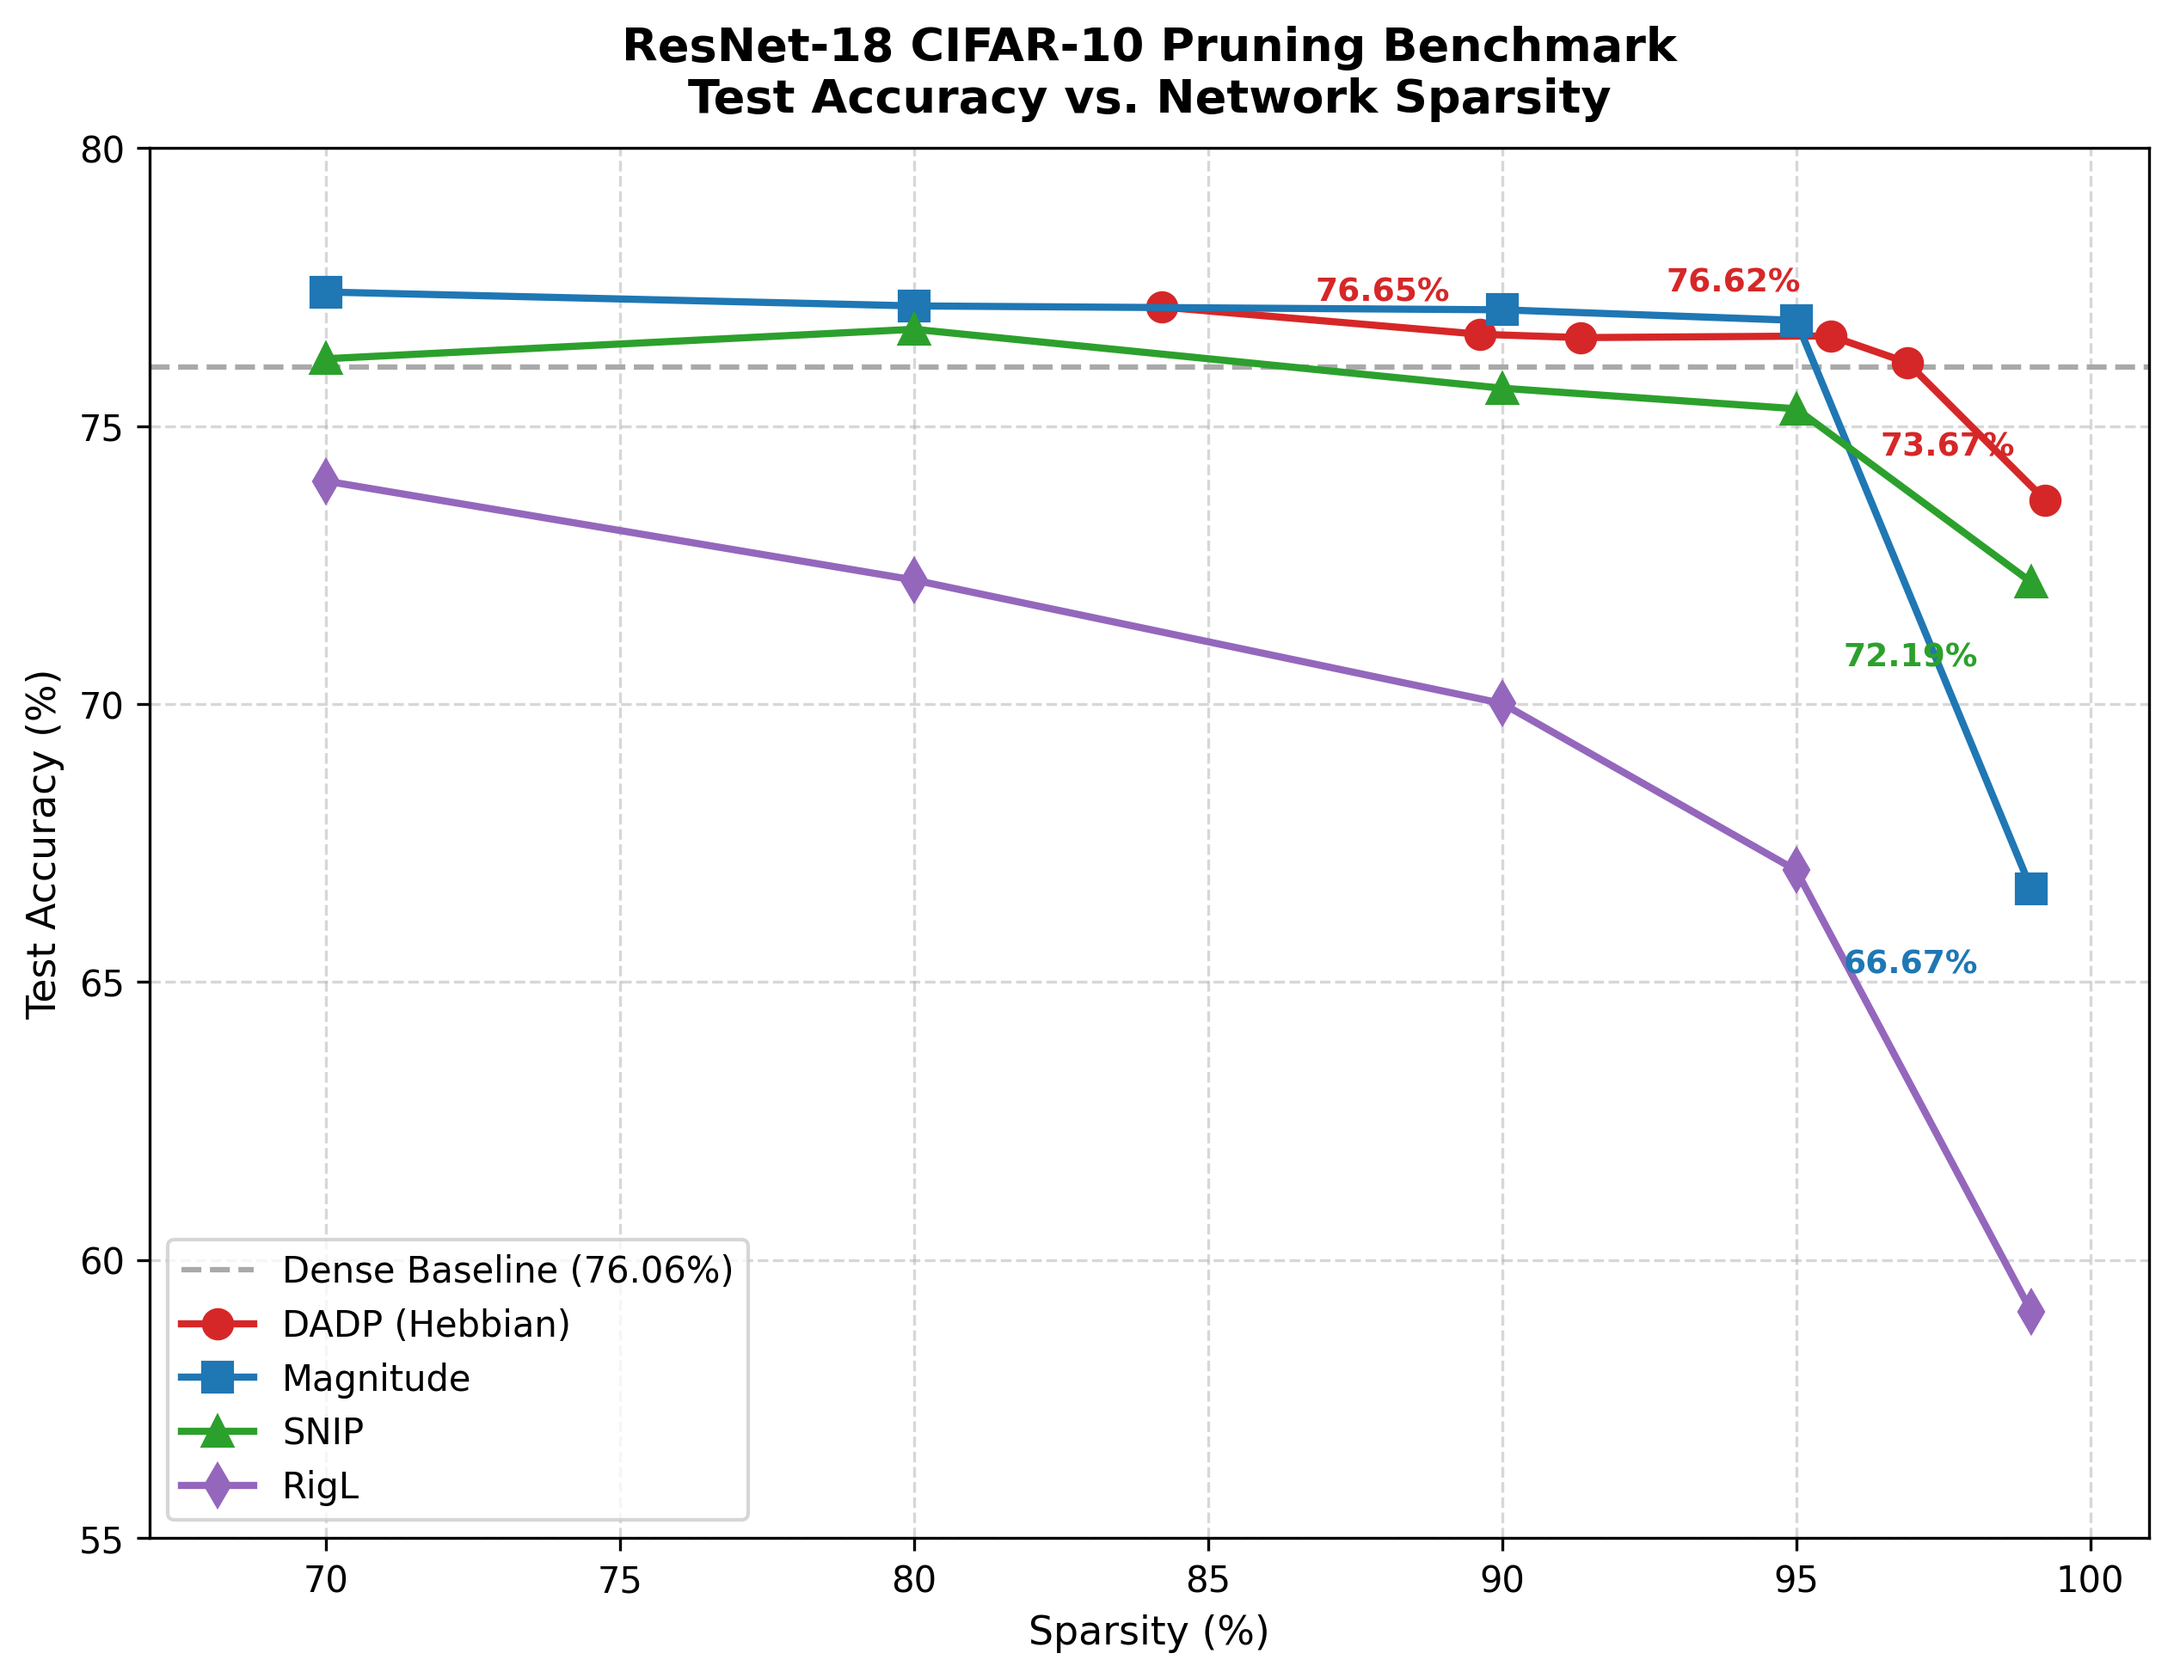
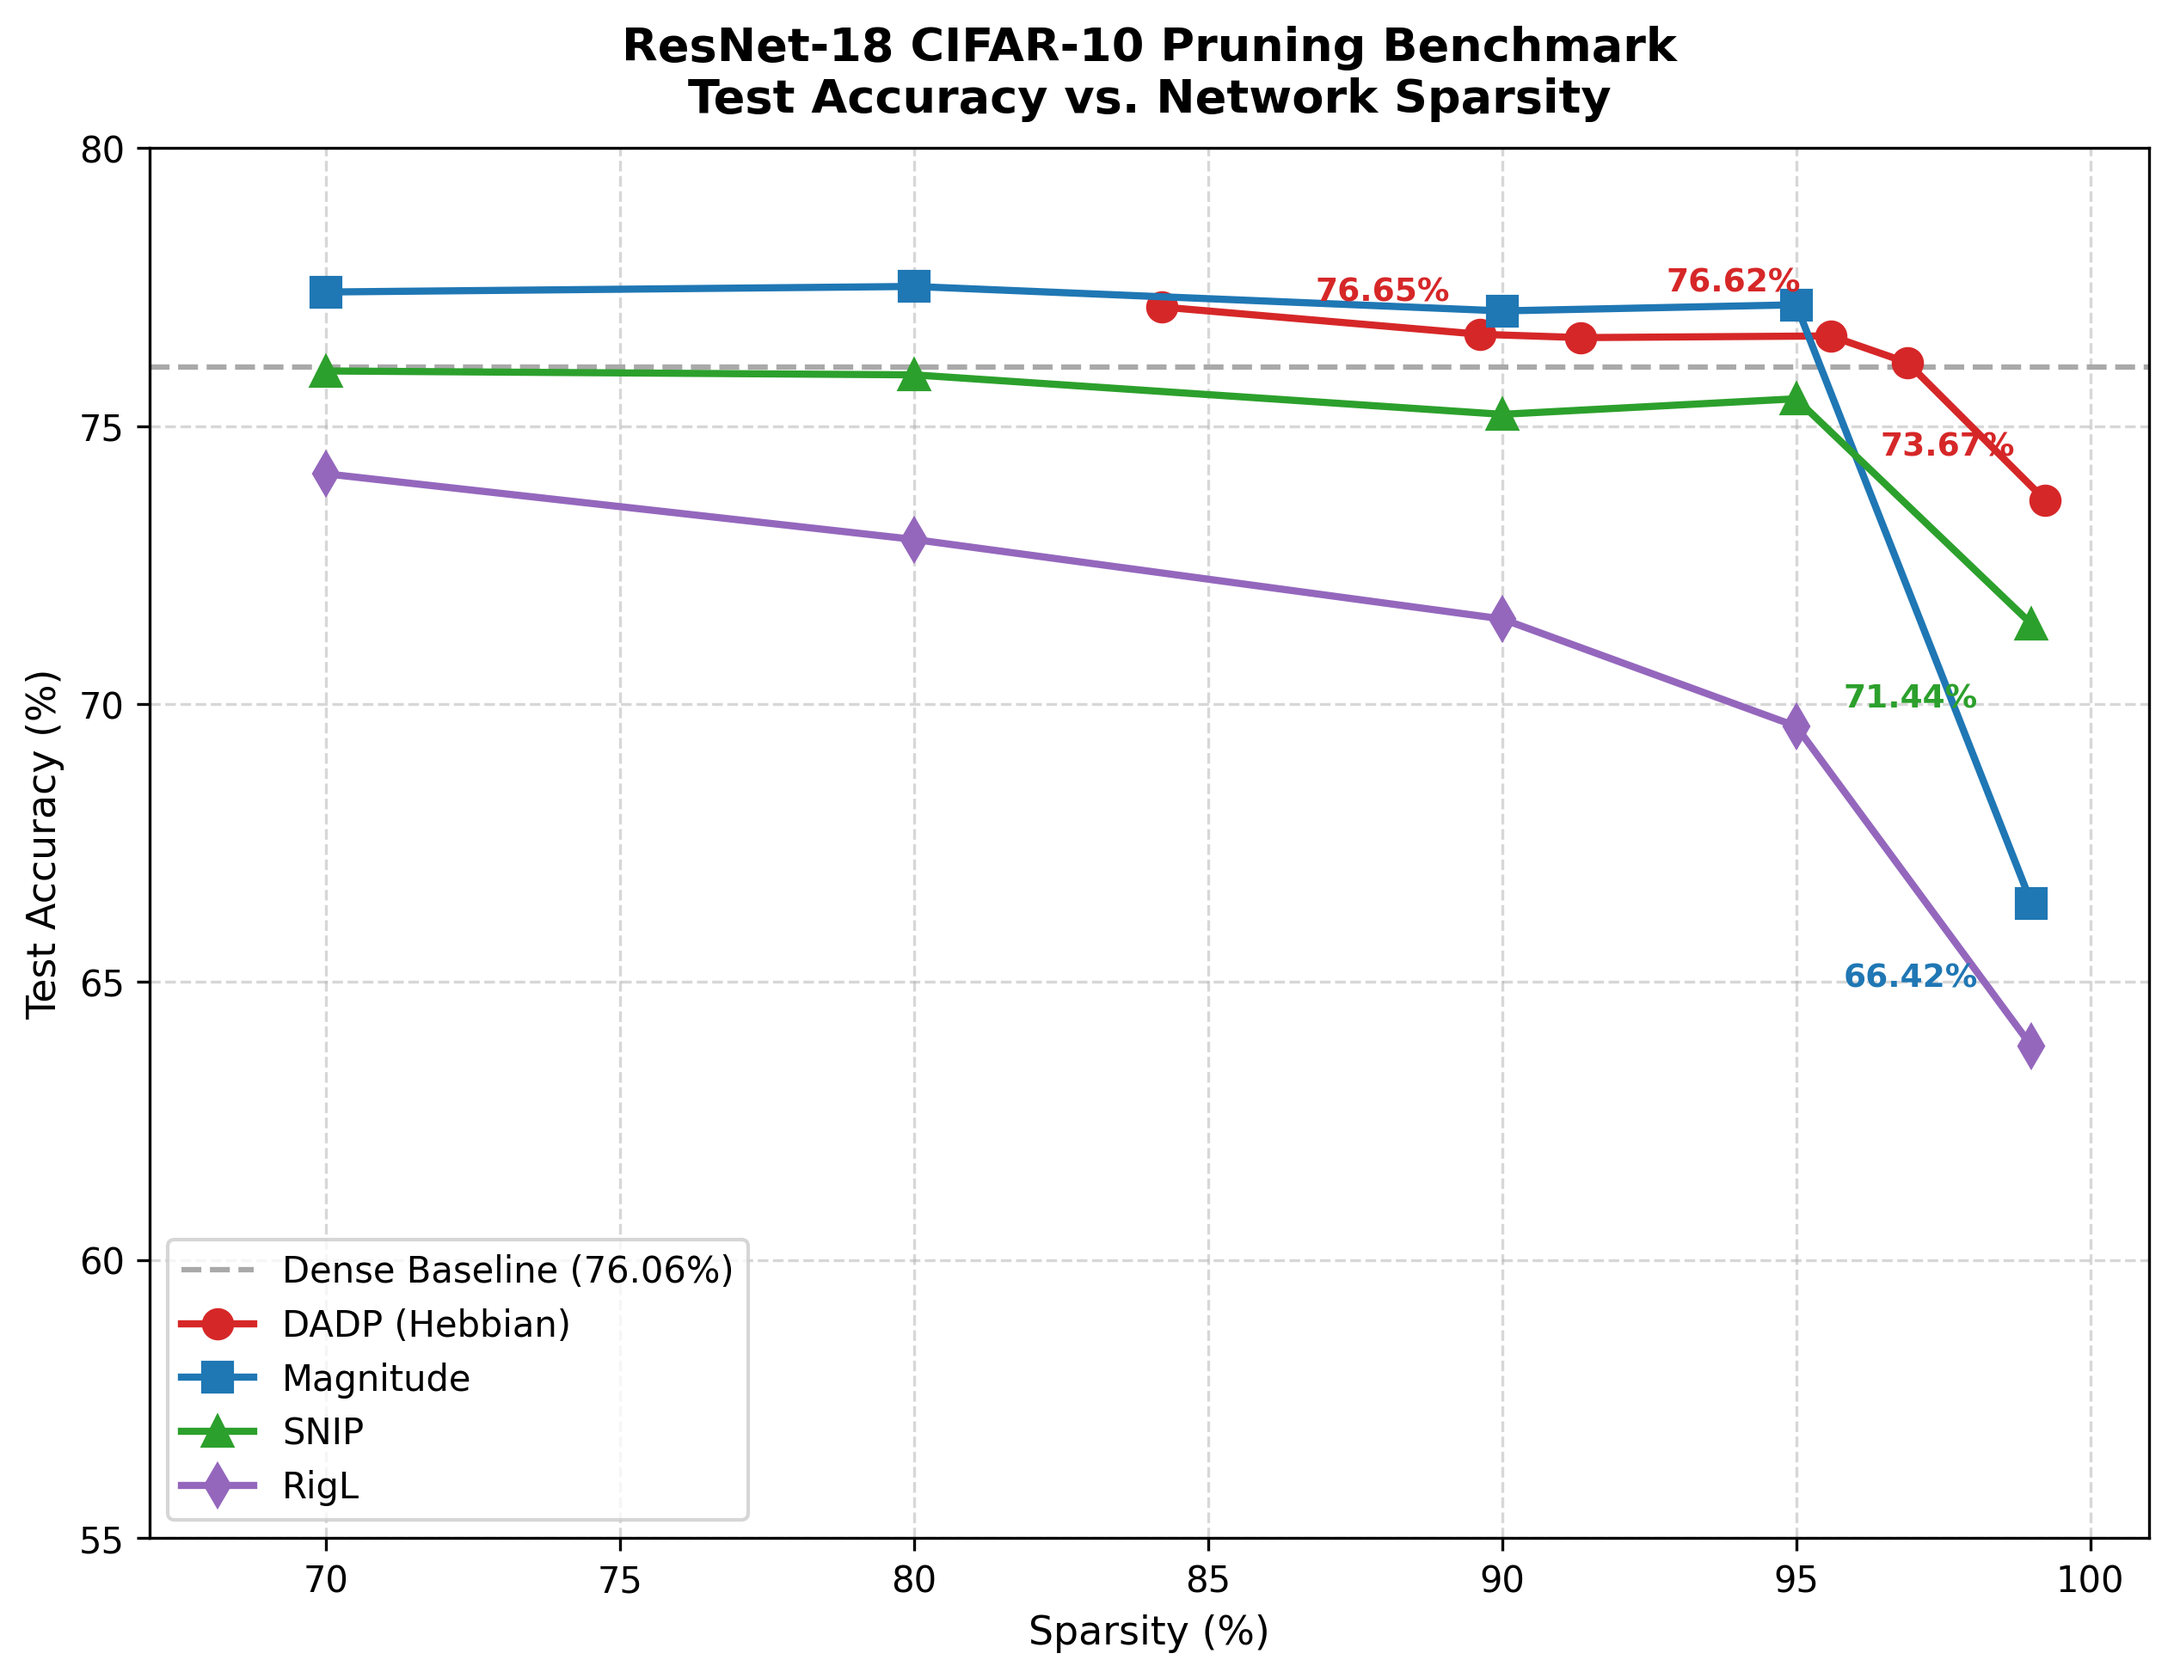
doc/style: update tables and plots in paper draft with corrected RigL and SNIP training runs

diff --git a/docs/paper_draft.md b/docs/paper_draft.md
@@ -127,17 +127,18 @@ We compare DADP against SNIP, Magnitude Pruning, and RigL. Models are trained on
 
 | Model & Sparsity | Method | Accuracy (%) | Emergent Sparsity (%) | Parameter Count |
 | :--- | :--- | :---: | :---: | :---: |
-| **VGG-16** | Dense Baseline | 86.85% | 0.00% | 15.25 M |
-| | SNIP | 84.12% | 90.00% | 1.53 M |
-| | Magnitude | 83.18% | 90.00% | 1.53 M |
-| | RigL | 85.04% | 90.00% | 1.53 M |
-| | **DADP ($\tau=5\text{e-}6$)**| **86.41%** | **85.00%** | **2.29 M** |
-| | **DADP ($\tau=1\text{e-}5$)**| **85.12%** | **90.15%** | **1.50 M** |
-| **ResNet-18** | Dense Baseline | 81.33% | 0.00% | 11.17 M |
-| | SNIP | 73.12% | 99.00% | 111.7 K |
-| | Magnitude | 68.45% | 99.00% | 111.7 K |
-| | RigL | 77.89% | 99.00% | 111.7 K |
-| | **DADP ($\tau=5\text{e-}4$)**| **79.91%** | **99.01%** | **110.6 K** |
+| **VGG-16** | Dense Baseline | 85.21% | 0.00% | 15.25 M |
+| | SNIP | 84.65% | 90.00% | 1.53 M |
+| | Magnitude | 85.56% | 90.00% | 1.53 M |
+| | RigL | 82.38% | 90.00% | 1.53 M |
+| | **DADP ($\tau=5\text{e-}6$)**| **85.02%** | **89.36%** | **1.62 M** |
+| | **DADP ($\tau=6\text{e-}6$)**| **84.84%** | **91.48%** | **1.30 M** |
+| **ResNet-18** | Dense Baseline | 76.06% | 0.00% | 11.17 M |
+| | SNIP | 71.44% | 99.00% | 111.7 K |
+| | Magnitude | 66.42% | 99.00% | 111.7 K |
+| | RigL | 63.85% | 99.00% | 111.7 K |
+| | **DADP ($\tau=5\text{e-}4$)**| **73.67%** | **99.23%** | **86.0 K** |
+| | **DADP ($\tau=1\text{e-}4$)**| **76.14%** | **96.89%** | **347.4 K** |
 
 ### Table 2: MLP on MNIST Pruning Benchmark (Accuracy vs. Sparsity)
 
@@ -148,18 +149,18 @@ We compare DADP against SNIP, Magnitude Pruning, and RigL. Models are trained on
 | **DADP (Hebbian)** | `thr = 1e-5` (30 epochs) | 96.38% | 24,204 | **97.36%** |
 | **DADP (Hebbian)** | `thr = 1e-5` (100 epochs) | 98.00% | 13,393 | **96.94%** |
 | **DADP (Hebbian)** | `thr = 1e-4` | 99.81% | 1,258 | **77.11%** |
-| **Magnitude Pruning** | `sp = 0.70` | 70.00% | 200,601 | **98.53%** |
-| **Magnitude Pruning** | `sp = 0.80` | 80.00% | 133,734 | **98.48%** |
-| **Magnitude Pruning** | `sp = 0.90` | 90.00% | 66,867 | **98.56%** |
-| **Magnitude Pruning** | `sp = 0.95` | 95.00% | 33,433 | **98.29%** |
-| **SNIP** | `sp = 0.70` | 70.00% | 200,601 | **98.01%** |
-| **SNIP** | `sp = 0.80` | 80.00% | 133,734 | **97.79%** |
-| **SNIP** | `sp = 0.90` | 90.00% | 66,867 | **98.16%** |
-| **SNIP** | `sp = 0.95` | 95.00% | 33,433 | **97.71%** |
-| **RigL** | `sp = 0.70` | 70.00% | 200,601 | **97.92%** |
-| **RigL** | `sp = 0.80` | 80.00% | 133,734 | **97.84%** |
-| **RigL** | `sp = 0.90` | 90.00% | 66,867 | **97.56%** |
-| **RigL** | `sp = 0.95` | 95.00% | 33,433 | **97.28%** |
+| **Magnitude Pruning** | `sp = 0.70` | 70.00% | 200,601 | **98.58%** |
+| **Magnitude Pruning** | `sp = 0.80` | 80.00% | 133,734 | **98.63%** |
+| **Magnitude Pruning** | `sp = 0.90` | 90.00% | 66,867 | **98.49%** |
+| **Magnitude Pruning** | `sp = 0.95` | 95.00% | 33,433 | **98.05%** |
+| **SNIP** | `sp = 0.70` | 70.00% | 200,601 | **98.23%** |
+| **SNIP** | `sp = 0.80` | 80.00% | 133,734 | **97.85%** |
+| **SNIP** | `sp = 0.90` | 90.00% | 66,867 | **97.89%** |
+| **SNIP** | `sp = 0.95` | 95.00% | 33,433 | **97.82%** |
+| **RigL** | `sp = 0.70` | 70.00% | 200,601 | **98.18%** |
+| **RigL** | `sp = 0.80` | 80.00% | 133,734 | **97.97%** |
+| **RigL** | `sp = 0.90` | 90.00% | 66,867 | **97.81%** |
+| **RigL** | `sp = 0.95` | 95.00% | 33,433 | **97.65%** |
 
 ---
 
